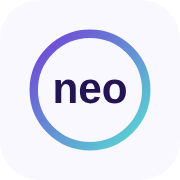
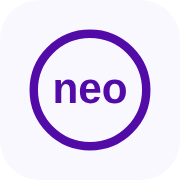
Add files via upload

Changed region(s): [[0.1389, 0.1389, 0.8611, 0.8611], [0.3056, 0.4167, 0.7222, 0.5833]]

diff --git a/index.html b/index.html
@@ -340,11 +340,11 @@ textarea.inp{height:96px;padding:12px 16px;resize:none}
 .welcome .orb span{position:relative;color:#fff;font-weight:700;font-size:26px;letter-spacing:-.03em}
 .logo{font-weight:700;font-size:30px;letter-spacing:-.03em}
 .lgsvg{display:inline-block;vertical-align:middle;width:auto}
-:root{--lgneo:#241453;--lgpay:#520BA7}
-@media (prefers-color-scheme: dark){ :root:not([data-theme="light"]){--lgneo:#FFFFFF;--lgpay:#CFC4FE} }
-:root[data-theme="dark"]{--lgneo:#FFFFFF;--lgpay:#CFC4FE}
-.lgsvg.inv{--lgneo:#FFFFFF;--lgpay:#CFC4FE}
-.lgsvg.onlight{--lgneo:#241453;--lgpay:#520BA7}
+:root{--lgring:#520BA7;--lgneo:#520BA7;--lgpay:#241453}
+@media (prefers-color-scheme: dark){ :root:not([data-theme="light"]){--lgring:#CFC4FE;--lgneo:#FFFFFF;--lgpay:#FFFFFF} }
+:root[data-theme="dark"]{--lgring:#CFC4FE;--lgneo:#FFFFFF;--lgpay:#FFFFFF}
+.lgsvg.inv{--lgring:#CFC4FE;--lgneo:#FFFFFF;--lgpay:#FFFFFF}
+.lgsvg.onlight{--lgring:#520BA7;--lgneo:#520BA7;--lgpay:#241453}
 .lgo{display:inline-flex;align-items:center;gap:.06em;font-weight:800;letter-spacing:-.035em;color:var(--fg);line-height:1;white-space:nowrap}
 .lgo .c{display:inline-grid;place-items:center;width:1.62em;height:1.62em;border-radius:50%;border:.1em solid var(--violet);color:var(--violet);font-size:.8em;letter-spacing:-.03em;padding-bottom:.06em}
 .lgo.inv{color:#fff} .lgo.inv .c{border-color:#fff;color:#fff}
@@ -357,7 +357,7 @@ textarea.inp{height:96px;padding:12px 16px;resize:none}
 .splash.out{opacity:0;pointer-events:none}
 .splash .wm{font-weight:800;font-size:46px;letter-spacing:-.04em;color:#241453;display:flex;align-items:baseline;white-space:nowrap}
 .splash .wm b{color:#520BA7}
-.sp2 .tail{color:#520BA7}
+.sp2 .tail{color:#241453}
 .splash .sub{position:absolute;left:0;right:0;bottom:calc(46px + env(safe-area-inset-bottom,0px));text-align:center;font-size:13px;font-weight:600;letter-spacing:.14em;text-transform:uppercase;color:#7C75A3;opacity:0;animation:spFade .6s 1.5s forwards}
 @keyframes spFade{to{opacity:1}}
 /* 1 — пиксели собираются в логотип */
@@ -377,9 +377,9 @@ textarea.inp{height:96px;padding:12px 16px;resize:none}
 .sp2 .wm{font-size:58px;align-items:center}
 .sp2 .c2{position:relative;width:94px;height:94px;display:grid;place-items:center;flex:none}
 .sp2 .c2 svg{position:absolute;inset:0;transform:rotate(-90deg)}
-.sp2 .c2 circle{fill:none;stroke:url(#npRing);stroke-width:6;stroke-linecap:round;stroke-dasharray:283;stroke-dashoffset:283;animation:draw .8s .1s cubic-bezier(.6,0,.3,1) forwards}
+.sp2 .c2 circle{fill:none;stroke:#520BA7;stroke-width:6;stroke-linecap:round;stroke-dasharray:283;stroke-dashoffset:283;animation:draw .8s .1s cubic-bezier(.6,0,.3,1) forwards}
 @keyframes draw{to{stroke-dashoffset:0}}
-.sp2 .c2 i{font-style:normal;color:#241453;font-size:44px;opacity:0;transform:scale(.6);animation:brIn .45s .75s cubic-bezier(.2,.9,.25,1.3) forwards}
+.sp2 .c2 i{font-style:normal;color:#520BA7;font-size:44px;opacity:0;transform:scale(.6);animation:brIn .45s .75s cubic-bezier(.2,.9,.25,1.3) forwards}
 .sp2 .br{display:inline-block;color:#520BA7;opacity:0;animation:brIn .45s .15s cubic-bezier(.2,.9,.25,1.3) forwards}
 @keyframes brIn{from{opacity:0;transform:scale(.3)}to{opacity:1;transform:none}}
 .sp2 .mid,.sp2 .tail{display:inline-block;overflow:hidden;max-width:0;vertical-align:bottom}
@@ -474,7 +474,7 @@ const PLACES = [
   {c:'rb',name:'Книжная «Абзац»',cat:'store',city:'Минск, ул. Октябрьская'},{c:'rb',name:'Бистро «Вилка»',cat:'cafe',city:'Брест'},
   {c:'tr',name:'Kemer Kahve Evi',cat:'cafe',city:'Кемер'},{c:'tr',name:'Antalya Market',cat:'store',city:'Анталья'},
   {c:'tr',name:'Pamukkale Tur',cat:'tour',city:'Анталья'},{c:'tr',name:'Bodrum Balık',cat:'cafe',city:'Бодрум'},{c:'tr',name:'İstanbul Çarşı',cat:'store',city:'Стамбул'}];
-const LG_RING='<circle cx="60" cy="60" r="48.5" fill="none" stroke="url(#npRing)" stroke-width="7"/>';
+const LG_RING='<circle cx="60" cy="60" r="48.5" fill="none" stroke-width="7" style="stroke:var(--lgring)"/>';
 const LG_NEO='<text x="60" y="70" text-anchor="middle" font-family="__F__" font-weight="800" font-size="38" textLength="64" lengthAdjust="spacingAndGlyphs" style="fill:var(--lgneo)">neo</text>'.replace('__F__','Manrope, system-ui, -apple-system, Segoe UI, sans-serif');
 function LOGO(cls,size){ const h=Math.round((size||20)*1.7);
   return '<svg class="lgsvg '+(cls||'')+'" viewBox="0 0 272 120" style="height:'+h+'px" role="img" aria-label="Neo Pay">'+LG_RING+LG_NEO+
